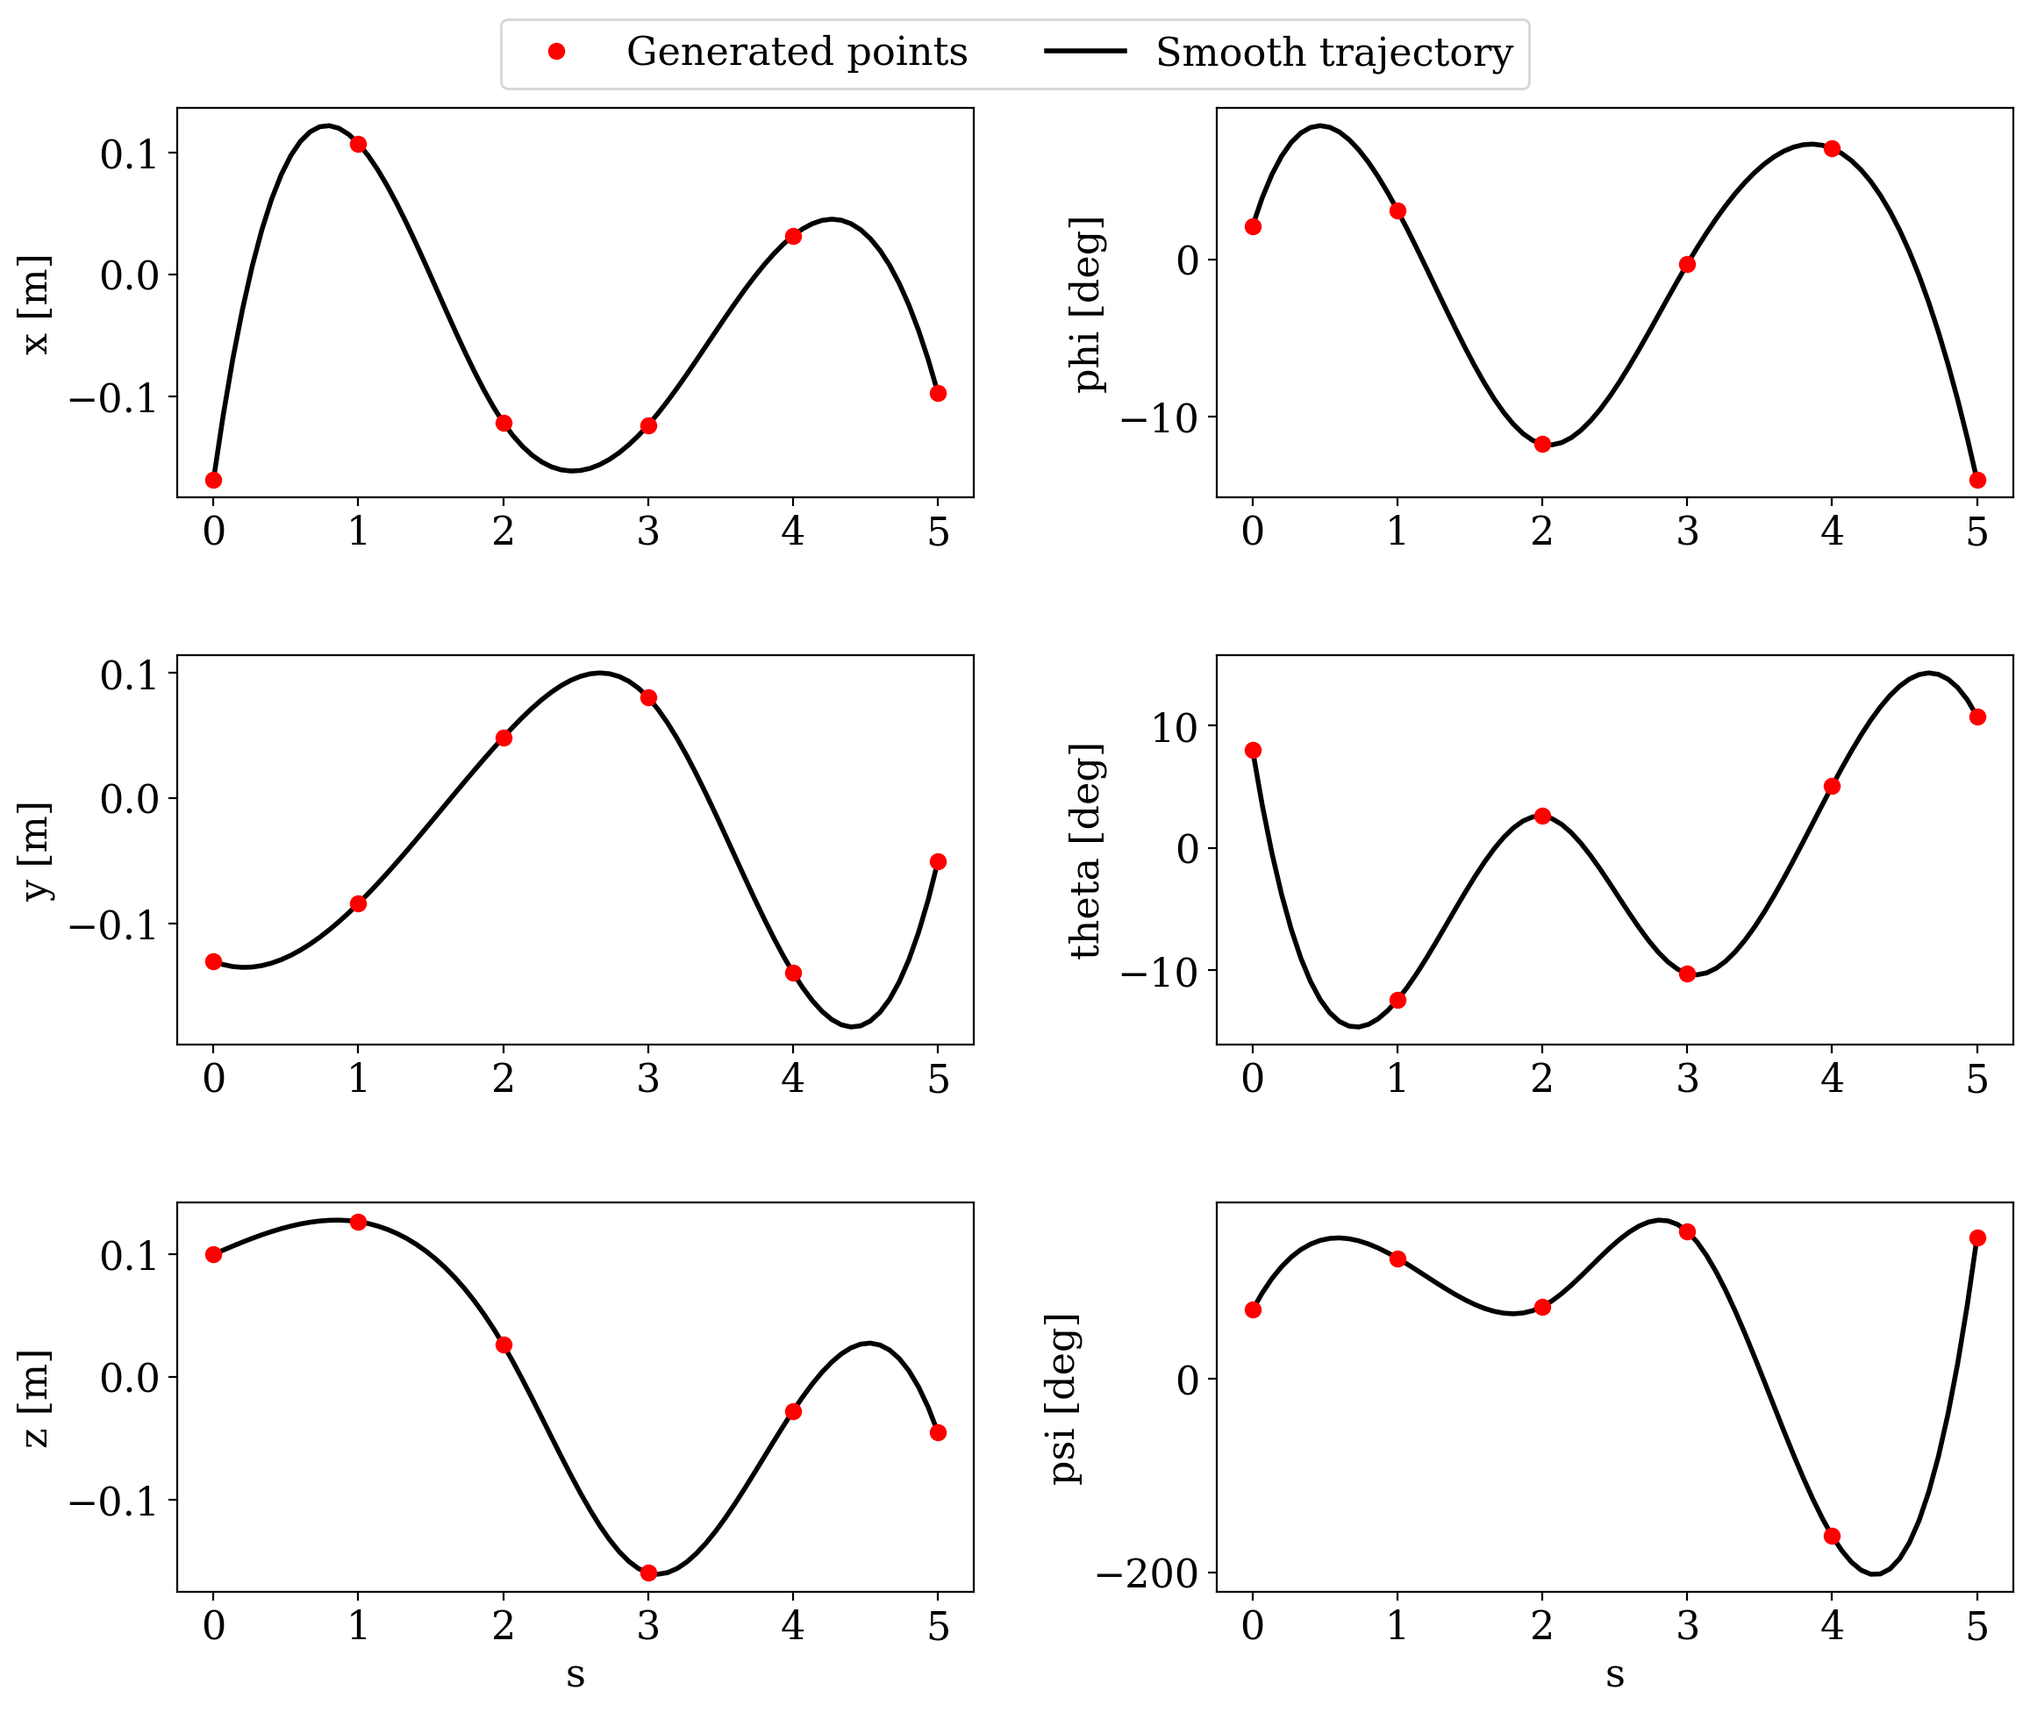
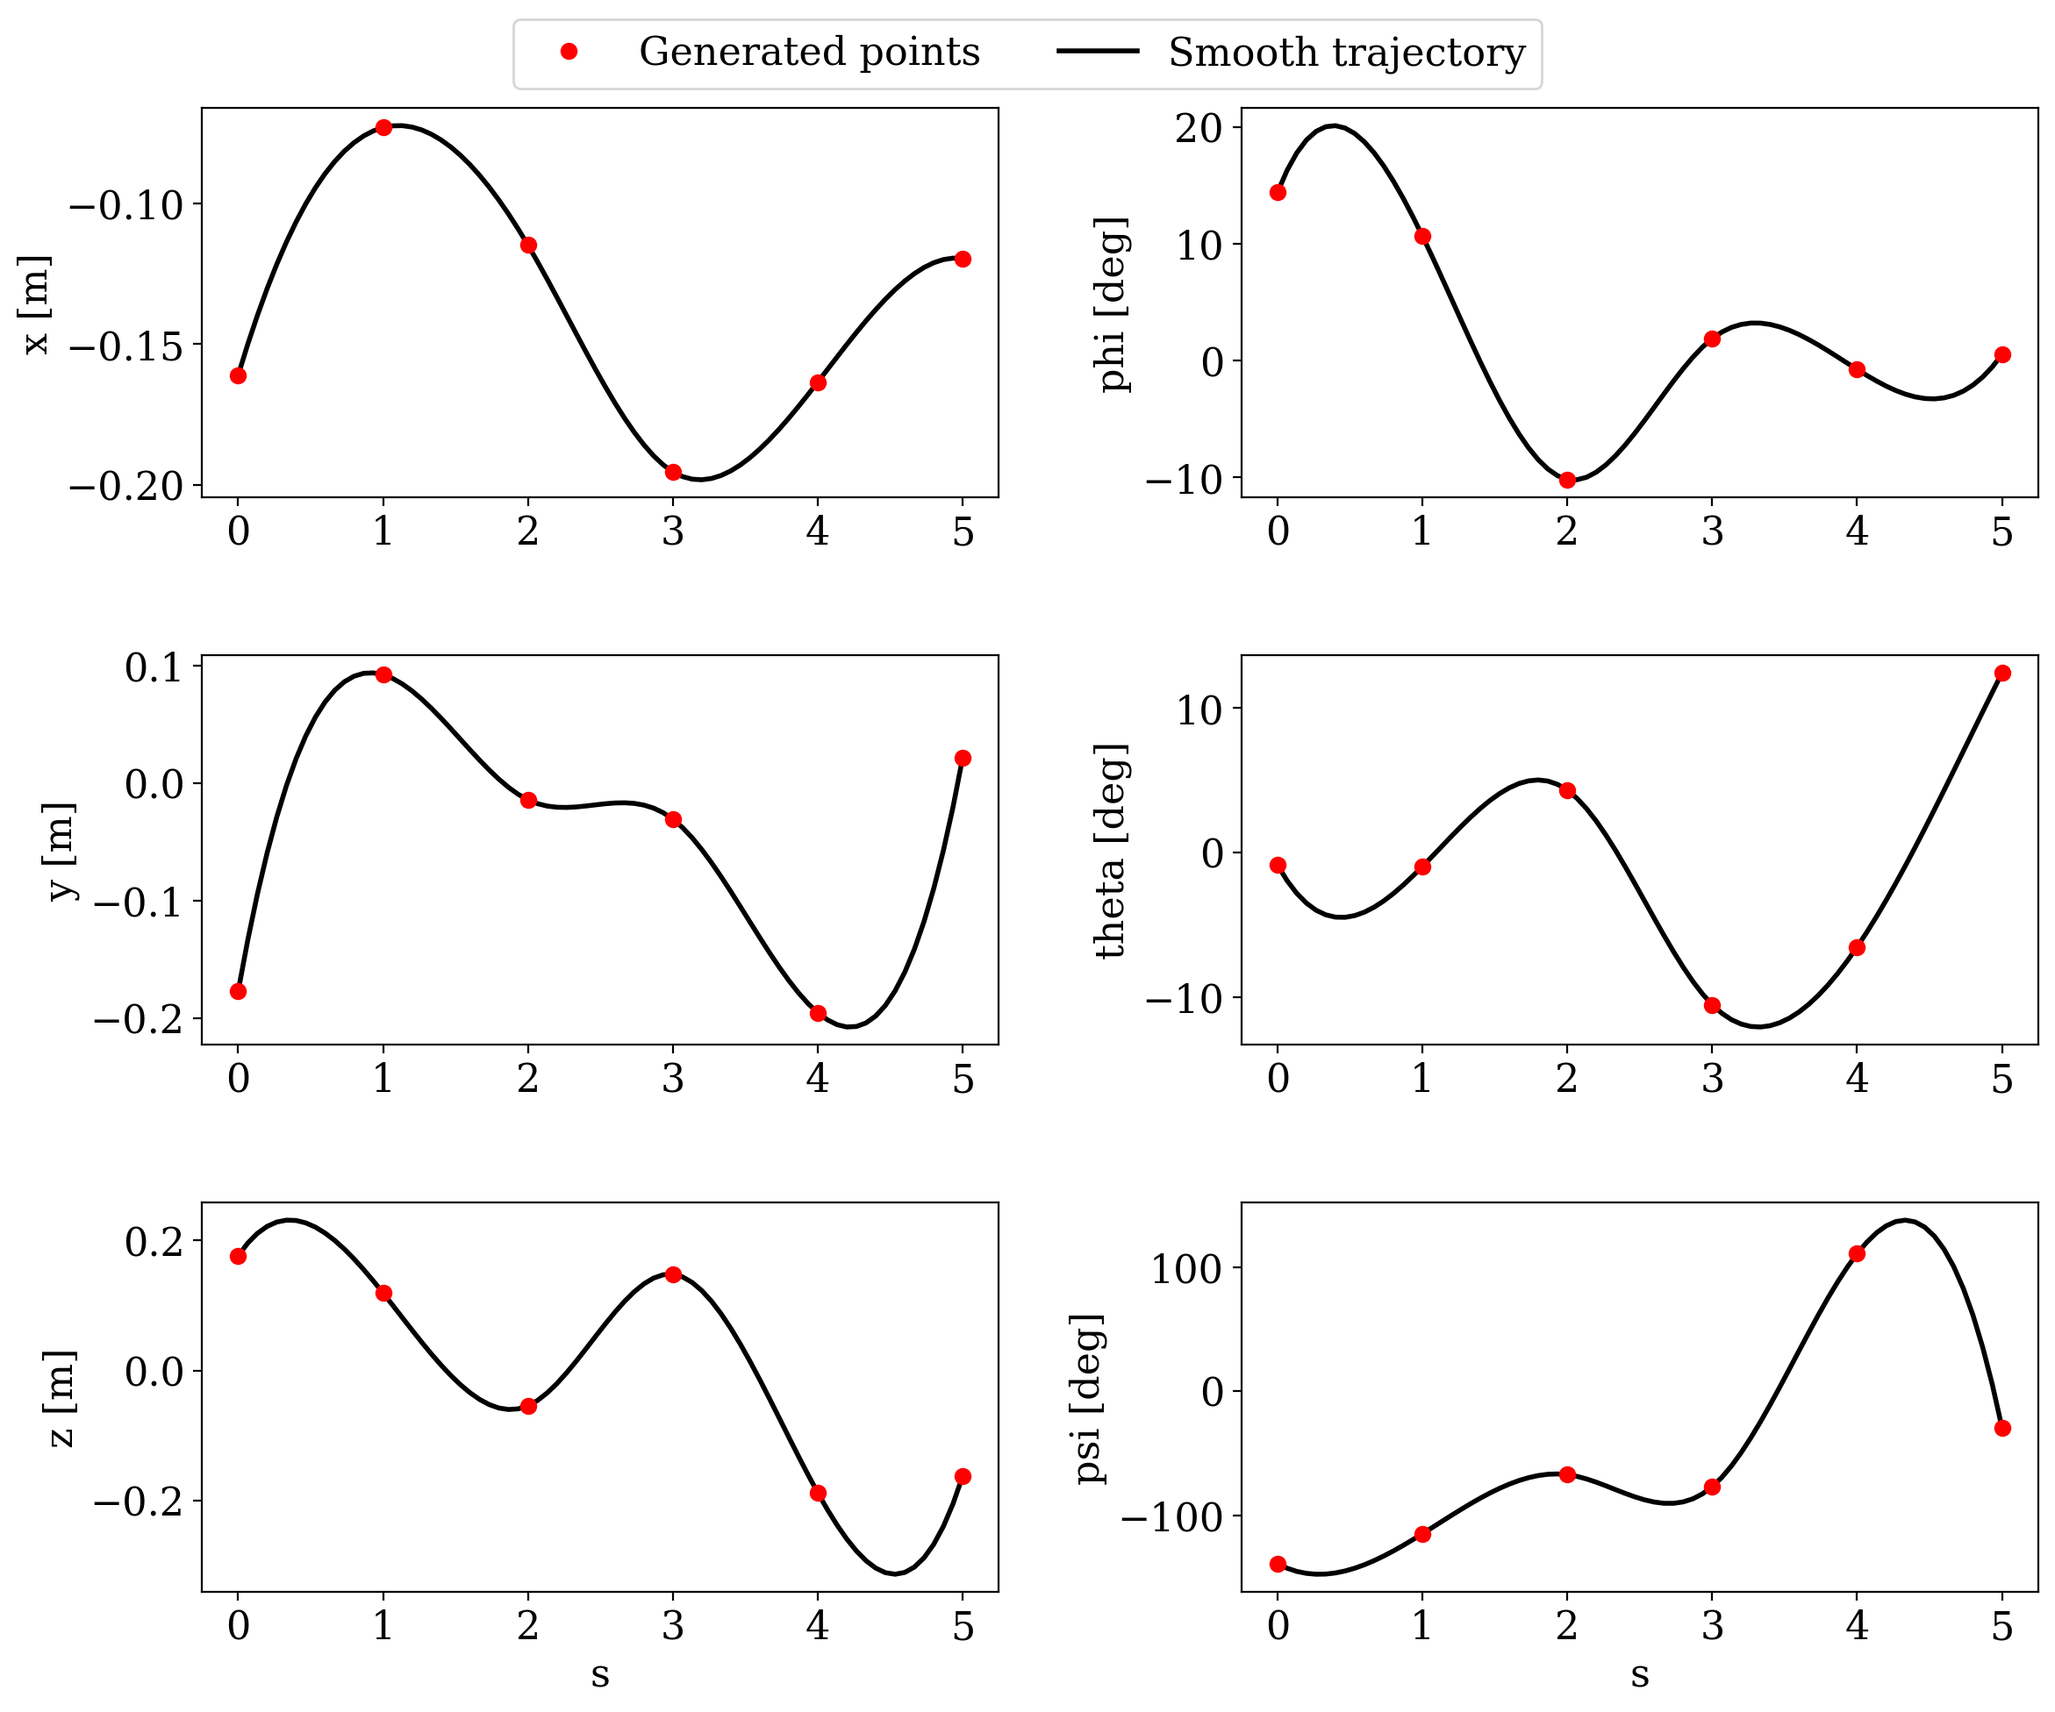
Fixed a few manoeuvring coeffs, updated controller

diff --git a/dynamicsModel_BlueROV2_Heavy_6DoF.py b/dynamicsModel_BlueROV2_Heavy_6DoF.py
@@ -44,13 +44,20 @@ class BlueROV2Heavy6DoF_PID_controller(object):
 
         # Generalised forces and moments from the controller
         windup = np.array([2., 2., 2., 90./180.*np.pi, 90./180.*np.pi, 90./180.*np.pi])
-        forceMomentMaxMagnitudes = [50., 50., 50., 0.25, 0.25, 2.]
-        K_P = np.array([25., 25., 25., 0.5, 0.5, 1.])
+        # forceMomentMaxMagnitudes = [50., 50., 50., 0.25, 0.25, 2.]
+        # K_P = np.array([25., 25., 25., 0.5, 0.5, 1.])
+        # K_I = np.array([2., 2., 2., 0.1, 0.1, 0.2])
+        # K_D = np.array([20., 20., 20., 0.1, 0.1, 0.65])
+        forceMomentMaxMagnitudes = [50., 50., 50., 2., 2., 2.]
+        K_P = np.array([25., 25., 25., 10., 10., 1.])
         K_I = np.array([2., 2., 2., 0.1, 0.1, 0.2])
-        K_D = np.array([20., 20., 20., 0.1, 0.1, 0.65])
+        K_D = np.array([20., 20., 20., 5., 5., 0.65])
         e = np.append(self.setPoint[:3] - np.array([x, y, z]),
-                      [resources.angleError(self.setPoint[3], phi),
-                      resources.angleError(self.setPoint[4], theta),
+                      [
+                      # [resources.angleError(self.setPoint[3], phi),
+                      # resources.angleError(self.setPoint[4], theta),
+                      self.setPoint[3] - phi,
+                      self.setPoint[4] - theta,
                       resources.angleError(self.setPoint[5], psi)])
         if self.eOld is None:
             self.eOld = e.copy()
@@ -83,7 +90,7 @@ class BlueROV2Heavy6DoF(object):
 
         # Coordinate system centred on CB # +++
         self.CB = np.array([0., 0., 0.])
-        self.CG = np.array([0., 0., 0.025]) # m (relative to the CB) # +++
+        self.CG = np.array([0., 0., 0.05]) # m (relative to the CB) # +++
 
         self.I = np.array([ # kg m2 # +++
             [0.16, 0.,  0.],
@@ -101,56 +108,55 @@ class BlueROV2Heavy6DoF(object):
         # Added mass and intertia
         self.Xudot = -5.5 # kg # +++
         self.Yvdot = -12.7 # +++
-
-        # TODO check values in reference
-        self.Zvdot = 0.
-        self.Zwdot = -12.7
+        self.Zwdot = -14.57
         self.Kpdot = -0.12
         self.Mqdot = -0.12
-
         self.Nrdot = -0.12 # kg m^2 / rad # +++
+
         # Cross-coupling terms.
+        # TODO check values in reference
         self.Yrdot = 0.
+        self.Zvdot = 0.
         self.Nvdot = 0.
 
         # ---
         # Quadratic terms.
         self.Xuu = -18.18 # kg/m # +++
         self.Yvv = -21.66 # +++
+        self.Zww = -36.99
+        self.Kpp = -1.55
+        self.Mqq = -1.55 # kg m^2 / rad^2
+        self.Nrr = -1.55 # kg m^2 / rad^2
+
         self.Yrr = 0.
         self.Ypp = 0.
 
         # TODO check values in reference
-        self.Zww = -21.0
         self.Zqq = 0.
         self.Kvv = 0.
-        self.Kpp = 0.
         self.Krr = 0.
         self.Mww = -1.55
-        self.Mqq = -1.55 # kg m^2 / rad^2
 
         self.Nvv = 0.0 # kg
-        self.Nrr = -1.55 # kg m^2 / rad^2 # +++ # TODO maybe wrong units?
         self.Npp = 0.
 
         # ---
         # Linear damping terms - same as Kantapon but divided by velocity and density
         self.Xu = -4.03 # +++
         self.Yv = -6.22 # +++
-        self.Yr = 0.
-        self.Yp = 0.
+        self.Zw = -5.18
+        self.Kp = -0.07
+        self.Mq = -0.07
+        self.Nr = -0.07 # +++
 
         # TODO check values in reference
-        self.Zw = 0.
+        self.Yr = 0.
+        self.Yp = 0.
         self.Zq = 0.
         self.Kv = 0.
-        self.Kp = -0.07
         self.Kr = 0.
         self.Mw = 0.
-        self.Mq = -0.07
-
         self.Nv = 0.
-        self.Nr = -0.07 # +++
         self.Np = 0.
 
         # ===
@@ -324,18 +330,6 @@ class BlueROV2Heavy6DoF(object):
                  self.I[0,2]*r + self.I[0,1]*q - self.I[0,0]*p,
                 0.],
         ])
-        # if retComp:
-        #     def printVec(vec):
-        #         print(" ".join(["{:.6f}".format(v) for v in vec]))
-        #     print("===")
-        #     for i in range(6):
-        #         printVec(-Crb[i, :]*vel)
-        #     print("---")
-        #     printVec(vel)
-        #     print("---")
-        #     printVec(-np.dot(Crb, vel))
-        #     print("---")
-        #     print(self.I[0,0]*q)
 
         Ca = np.array([
             [0.,            0.,                0.,                0.,                -self.Zwdot*w,    self.Yvdot*v],
@@ -661,7 +655,7 @@ if __name__ == "__main__":
 
     # # Constants and initial conditions
     # state0 = np.array([
-    #     0., 0., 0., 0./180.*np.pi, 30./180.*np.pi, 130./180.*np.pi,
+    #     0., 0., 0., -50./180.*np.pi, 30./180.*np.pi, 130./180.*np.pi,
     #     0., 0., 0., 0., 0., 0.])
     # tMax = 10.
     # rov = BlueROV2Heavy6DoF(BlueROV2Heavy6DoF_PID_controller(np.zeros(6)), disableThrusters=True)
@@ -691,73 +685,64 @@ if __name__ == "__main__":
 
     # === Test the dynamics subject to simple control ===
 
-    # # Constants and initial conditions
-    # dt = 0.25
-    # # state0 = np.array([
-    # #     0., 0., 0., 0./180.*np.pi, 0./180.*np.pi, 0./180.*np.pi,
-    # #     0., 0., 0., 0., 0., 0.])
-    # state0 = np.array([
-    #     0., 0., 0., 0./180.*np.pi, 0./180.*np.pi, 150./180.*np.pi,
-    #     0., 0., 0., 0., 0., 0.])
-    # # state0 = np.array([
-    # #     0., 0., 0., 30./180.*np.pi, -40./180.*np.pi, 150./180.*np.pi,
-    # #     0., 0., 0., 0., 0., 0.])
-    # tMax = 15.
-    # t = np.arange(0.0, tMax, dt)
-    #
-    # # Create a controller.
-    # controller = BlueROV2Heavy6DoF_PID_controller([2., -4.5, 1.5, -10./180.*np.pi, 10./180.*np.pi, 280./180.*np.pi])
-    #
-    # # Set up the vehicle with a single waypoint and desired attitude
-    # rov = BlueROV2Heavy6DoF(controller)
-    #
-    # # Advance in time
-    # result_solve_ivp = scipy.integrate.solve_ivp(
-    #     rov.derivs, (0, tMax), state0, method='RK45', t_eval=t, rtol=1e-3, atol=1e-3)
-    #
-    # # Sort out the computed angles.
-    # # result_solve_ivp.y[3:, :] = result_solve_ivp.y[3:, :] % (2.*np.pi)
-    # #
-    # # Plot trajectory
-    # fig  = plt.figure(figsize=(14, 8))
-    # fig.canvas.manager.set_window_title('Test 1 - PID, vehicle class only')
-    # ax = [
-    #     fig.add_subplot(1, 2, 1, projection='3d'),
-    #     fig.add_subplot(1, 2, 2),
-    # ]
-    # ax[0].set_xlabel("x")
-    # ax[0].set_ylabel("y")
-    # ax[0].set_zlabel("z")
-    # ax[0].set_aspect("equal")
-    # ax[0].invert_yaxis()  # NED and y +ve to stbd
-    # ax[0].invert_zaxis()
-    #
-    # ax[0].plot(result_solve_ivp.y[0, 0], result_solve_ivp.y[1, 0], result_solve_ivp.y[2, 0], "ks", label="Start")
-    #
-    # ax[0].plot(rov.controller.setPoint[0], rov.controller.setPoint[1], rov.controller.setPoint[2], "ko", label="Waypoint")
-    # rov.updateMovingCoordSystem(rov.controller.setPoint[3:])
-    # resources.plotCoordSystem(ax[0], rov.iHat, rov.jHat, rov.kHat, x0=rov.controller.setPoint[:3], ls="-")
-    #
-    # ax[0].plot(result_solve_ivp.y[0, :], result_solve_ivp.y[1, :], result_solve_ivp.y[2, :], "r", label="Trajectory")
-    #
-    # # Plot the coordinate systems throughout the episode.
-    # for i in range(0, result_solve_ivp.y.shape[1], 10):
-    #     rov.updateMovingCoordSystem(result_solve_ivp.y[3:6, i])
-    #     if i == 0:
-    #         ls = "-"
-    #     else:
-    #         ls = "--"
-    #     resources.plotCoordSystem(ax[0], rov.iHat, rov.jHat, rov.kHat, x0=result_solve_ivp.y[:3, i], ls=ls)
-    # ax[0].set_aspect("equal")
-    # ax[0].legend(loc="lower center", bbox_to_anchor=(0.5, 1.01), ncol=3)
-    #
-    # # Plot individual DoFs
-    # ax[1].set_xlim((0, tMax))
-    # for i, v in enumerate(["x", "y", "z", "theta", "phi", "psi"]):
-    #     ln, = ax[1].plot(result_solve_ivp.t, result_solve_ivp.y[i, :], label=v)
-    #     ax[1].hlines(rov.controller.setPoint[i], 0, tMax, color=ln.get_color(), linestyle="dashed")
-    #
-    # ax[1].legend(loc="lower center", bbox_to_anchor=(0.5, 1.01), ncol=3)
+    # Constants and initial conditions
+    dt = 0.25
+    state0 = np.array([
+        0., 0., 0., 0./180.*np.pi, 0./180.*np.pi, 150./180.*np.pi,
+        0., 0., 0., 0., 0., 0.])
+    tMax = 15.
+    t = np.arange(0.0, tMax, dt)
+
+    # Create a controller.
+    controller = BlueROV2Heavy6DoF_PID_controller([2., -4.5, 1.5, -40./180.*np.pi, 35./180.*np.pi, 280./180.*np.pi])
+
+    # Set up the vehicle with a single waypoint and desired attitude
+    rov = BlueROV2Heavy6DoF(controller)
+
+    # Advance in time
+    result_solve_ivp = scipy.integrate.solve_ivp(
+        rov.derivs, (0, tMax), state0, method='RK45', t_eval=t, rtol=1e-3, atol=1e-3)
+
+    # Plot trajectory
+    fig  = plt.figure(figsize=(14, 8))
+    fig.canvas.manager.set_window_title('Test 1 - PID, vehicle class only')
+    ax = [
+        fig.add_subplot(1, 2, 1, projection='3d'),
+        fig.add_subplot(1, 2, 2),
+    ]
+    ax[0].set_xlabel("x")
+    ax[0].set_ylabel("y")
+    ax[0].set_zlabel("z")
+    ax[0].set_aspect("equal")
+    ax[0].invert_yaxis()  # NED and y +ve to stbd
+    ax[0].invert_zaxis()
+
+    ax[0].plot(result_solve_ivp.y[0, 0], result_solve_ivp.y[1, 0], result_solve_ivp.y[2, 0], "ks", label="Start")
+
+    ax[0].plot(rov.controller.setPoint[0], rov.controller.setPoint[1], rov.controller.setPoint[2], "ko", label="Waypoint")
+    rov.updateMovingCoordSystem(rov.controller.setPoint[3:])
+    resources.plotCoordSystem(ax[0], rov.iHat, rov.jHat, rov.kHat, x0=rov.controller.setPoint[:3], ls="-")
+
+    ax[0].plot(result_solve_ivp.y[0, :], result_solve_ivp.y[1, :], result_solve_ivp.y[2, :], "r", label="Trajectory")
+
+    # Plot the coordinate systems throughout the episode.
+    for i in range(0, result_solve_ivp.y.shape[1], 10):
+        rov.updateMovingCoordSystem(result_solve_ivp.y[3:6, i])
+        if i == 0:
+            ls = "-"
+        else:
+            ls = "--"
+        resources.plotCoordSystem(ax[0], rov.iHat, rov.jHat, rov.kHat, x0=result_solve_ivp.y[:3, i], ls=ls)
+    ax[0].set_aspect("equal")
+    ax[0].legend(loc="lower center", bbox_to_anchor=(0.5, 1.01), ncol=3)
+
+    # Plot individual DoFs
+    ax[1].set_xlim((0, tMax))
+    for i, v in enumerate(["x", "y", "z", "theta", "phi", "psi"]):
+        ln, = ax[1].plot(result_solve_ivp.t, result_solve_ivp.y[i, :], label=v)
+        ax[1].hlines(rov.controller.setPoint[i], 0, tMax, color=ln.get_color(), linestyle="dashed")
+
+    ax[1].legend(loc="lower center", bbox_to_anchor=(0.5, 1.01), ncol=3)
 
     # # Save the trajectory.
     # with open("./tempData/trajectory.obj", "w") as outfile:
@@ -769,10 +754,10 @@ if __name__ == "__main__":
 
     # === Test the environment with a constant set point ===
 
-    env = BlueROV2Heavy6DoFEnv(maxSteps=100)
-    env.reset(initialSetpoint=[2., -4.5, 1.5, -10./180.*np.pi, 30./180.*np.pi, 280./180.*np.pi])
-    for i in range(100):
-        env.step(np.zeros(6))
-    plotEpisodeDetail(env, title='Test 2 - PID, env class')
+    # env = BlueROV2Heavy6DoFEnv(maxSteps=100)
+    # env.reset(initialSetpoint=[2., -4.5, 1.5, -10./180.*np.pi, 30./180.*np.pi, 280./180.*np.pi])
+    # for i in range(100):
+    #     env.step(np.zeros(6))
+    # plotEpisodeDetail(env, title='Test 2 - PID, env class')
 
     plt.show()

diff --git a/example_trialTrajectories.py b/example_trialTrajectories.py
@@ -28,7 +28,7 @@ ds = 1.
 dsFine = ds/15.
 nPts = 5
 
-dofRange = dict(zip(DOFs, [0.2, 0.2, 0.2, 15./180.*np.pi, 15./180.*np.pi, np.pi]))
+dofRange = dict(zip(DOFs, [0.2, 0.2, 0.2, 25./180.*np.pi, 25./180.*np.pi, np.pi]))
 
 s = np.arange(0, nPts*ds+ds/2., ds)
 snew = np.arange(s[0], s[-1]+dsFine/2., dsFine)
@@ -129,14 +129,16 @@ while iWp < dfWps.shape[0]-1:
     # Grab the initial state for the next WP.
     state = result_solve_ivp.y[:, -1]
 
+# Common for plotting individual DOFs.
+order = [(0, 0), (1, 0), (2, 0), (0, 1), (1, 1), (2, 1)]
+scales = [1., 1., 1., 180./np.pi, 180./np.pi, 180./np.pi]
+units = ["m", "m", "m", "deg", "deg", "deg"]
+
 # Plot the generated trajectory.
 fig, axes = plt.subplots(3, 2, figsize=(12, 10))
 plt.subplots_adjust(top=0.937, bottom=0.091, left=0.108, right=0.98, hspace=0.405, wspace=0.304)
 axes[-1, 0].set_xlabel("s")
 axes[-1, 1].set_xlabel("s")
-order = [(0, 0), (1, 0), (2, 0), (0, 1), (1, 1), (2, 1)]
-scales = [1., 1., 1., 180./np.pi, 180./np.pi, 180./np.pi]
-units = ["m", "m", "m", "deg", "deg", "deg"]
 for i, dof in enumerate(DOFs):
     ax = axes[order[i][0], order[i][1]]
     ax.set_ylabel("{} [{}]".format(dof, units[i]))
@@ -161,7 +163,7 @@ if saveFigs:
     plt.savefig("./Figures/randomTrajectory_result_detailed.png", dpi=200, bbox_inches="tight")
 
 # Plot trajectory in 3D.
-fig  = plt.figure(figsize=(8, 8))
+fig = plt.figure(figsize=(8, 8))
 plt.subplots_adjust(top=0.973, bottom=0.034, left=0.03, right=0.97)
 ax = fig.add_subplot(projection='3d')
 ax.set_xlabel("x")
@@ -182,7 +184,7 @@ for i in dfWpsCoarse.index:
     rov.updateMovingCoordSystem(dfWpsCoarse.loc[i, ["phi", "theta", "psi"]].values)
     resources.plotCoordSystem(ax, rov.iHat, rov.jHat, rov.kHat, x0=dfWpsCoarse.loc[i, ["x", "y", "z"]].values,
         ds=dofRange["x"]/4., ls="--")
-# if saveFigs:
-#     plt.savefig("./Figures/randomTrajectory_result.png", dpi=200, bbox_inches="tight")
+if saveFigs:
+    plt.savefig("./Figures/randomTrajectory_result.png", dpi=200, bbox_inches="tight")
 
 plt.show()
